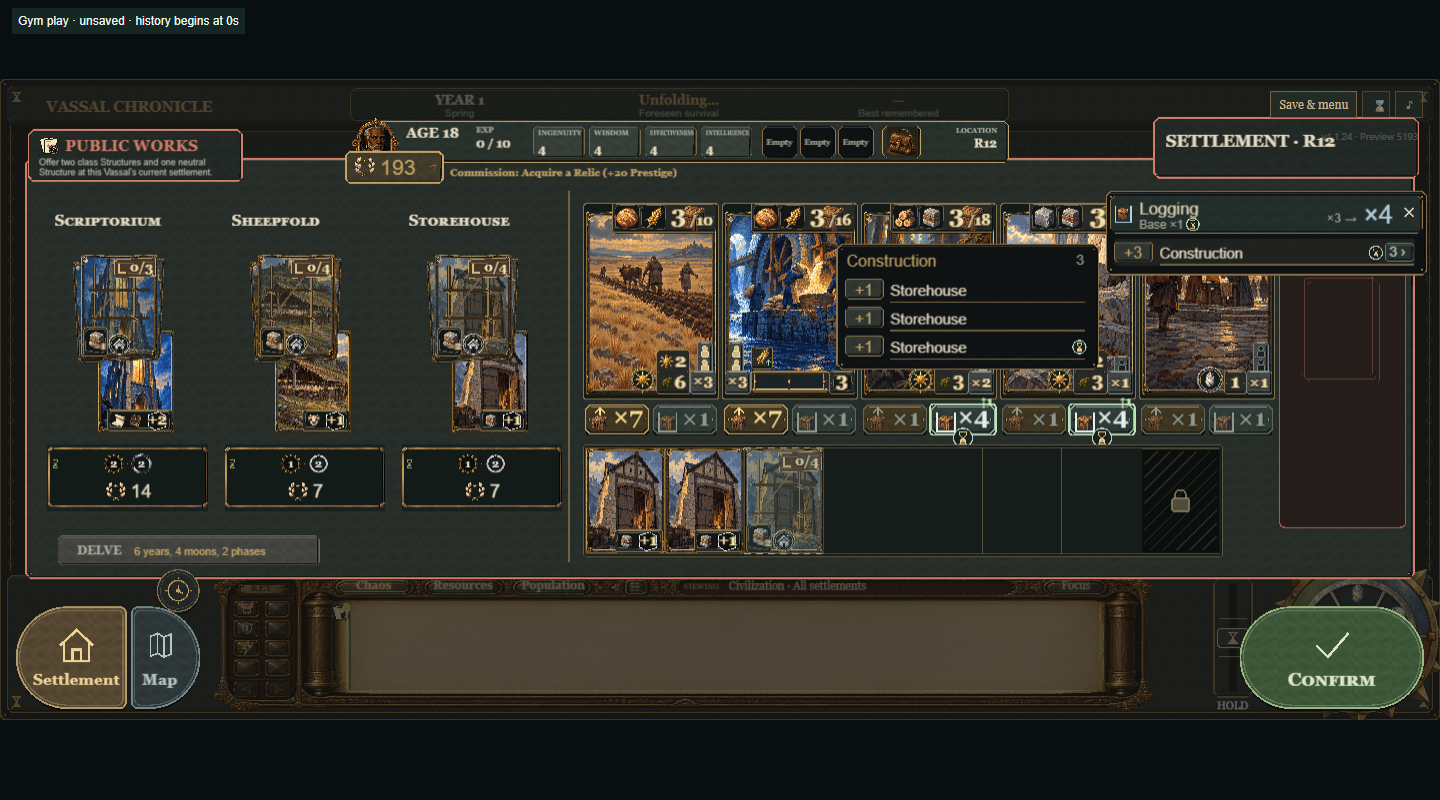
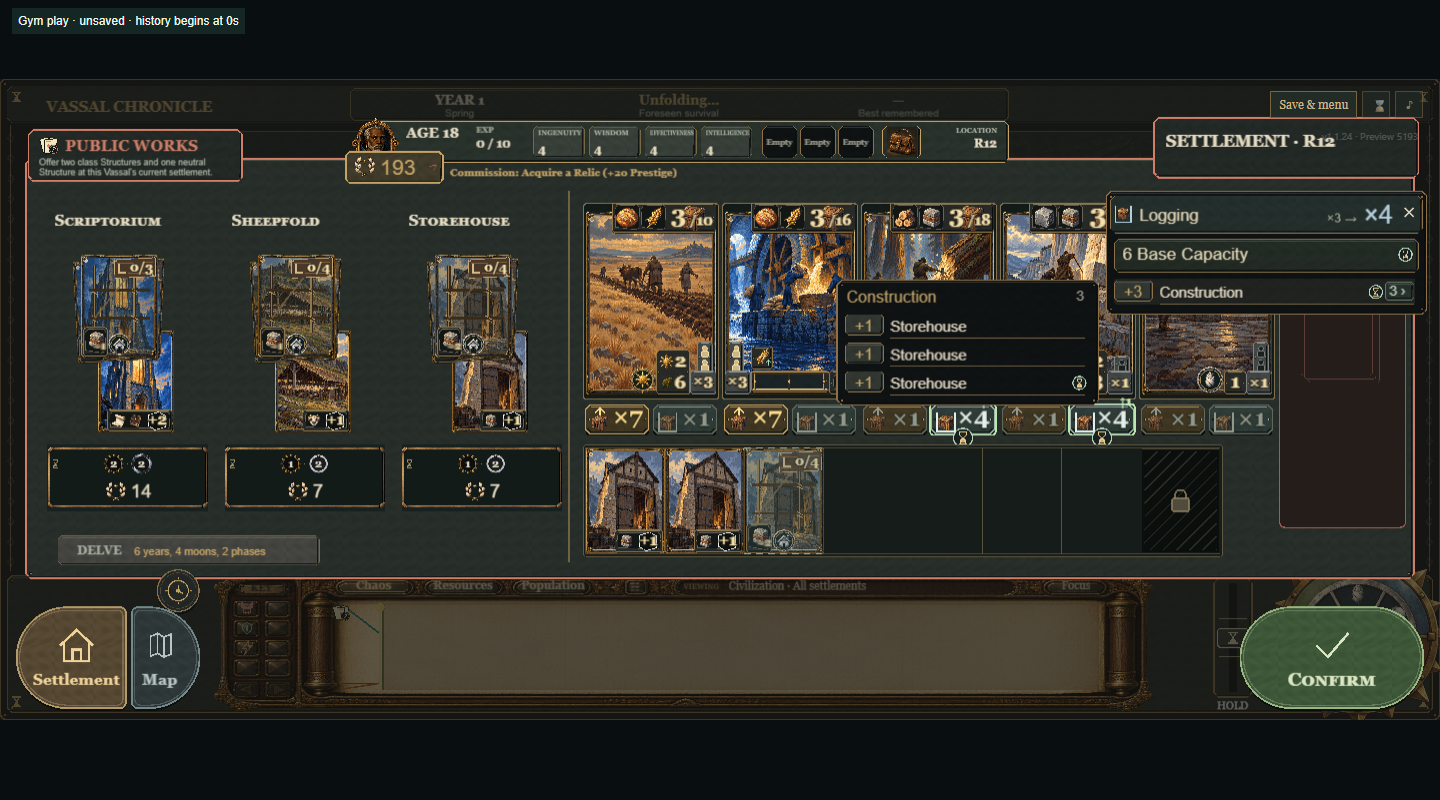
Show base amounts above multiplier contributions

Changed region(s): [[0.5625, 0.25, 1.0, 0.5312]]

diff --git a/src/views/multiplier-breakdown.js b/src/views/multiplier-breakdown.js
@@ -79,7 +79,7 @@ function contributionRows(parent,entries,{width,top,maxRows=5,onSources=()=>{},o
 }
 
 export function addMultiplierBreakdown(parent,spec,{pinned=false,onSources,onLeave}={}) {
-  const {name,pool,kind,before,afterCompletion}=spec.poolBreakdown;
+  const {name,pool,kind,before,baseOutput=[],afterCompletion}=spec.poolBreakdown;
   const groups=poolContributions(pool),width=540,accent=kind==='output'?0xe6bc70:0xb3cfdd;
   const header=new PIXI.Graphics();paintRelicPanel(header,7,7,width-14,63,kind==='output'?0x302619:0x25302e,RELIC.brass,1);header.eventMode='none';parent.addChild(header);
   addResourceIcon(parent,'stock',29,37,25);
@@ -87,15 +87,26 @@ export function addMultiplierBreakdown(parent,spec,{pinned=false,onSources,onLea
   if(kind==='output')mark.moveTo(29,29).lineTo(29,15).moveTo(23,21).lineTo(29,15).lineTo(35,21);
   else mark.moveTo(16,24).lineTo(16,51).lineTo(42,51).lineTo(42,24);
   mark.eventMode='none';parent.addChild(mark);
-  const heading=label(parent,name,56,13,28,RELIC.bone);heading.scale.set(Math.min(1,(width-265)/heading.width));
-  const base=label(parent,'Base \u00d71',56,44,20,RELIC.ash);
+  const heading=label(parent,name,56,24,28,RELIC.bone);heading.scale.set(Math.min(1,(width-265)/heading.width));
   const number=label(parent,`\u00d7${pool.multiplier}`,width-(pinned?56:20),15,43,accent);number.anchor.x=1;number.scale.set(Math.min(1,112/number.width));
   if(before!==undefined&&before!==pool.multiplier) {
     const previous=label(parent,`\u00d7${before} \u2192`,number.x-number.width-10,33,21,RELIC.ash);previous.anchor.x=1;
   }
-  if(afterCompletion)addMultiplierCompletionBadge(parent,56+base.width+16,55,21);
-  const rows=contributionRows(parent,groups,{width,top:80,onSources,onLeave});
-  return {width,height:92+rows.height,rows};
+  const baseLines=kind==='capacity'
+    ?[`${pool.base+pool.quality+pool.scholar} Base Capacity`]
+    :baseOutput.map(row=>baseOutput.length>1?`${row.timing} \u203a Base ${row.amount} Stock`:`${row.amount} Base Stock`);
+  const capacityParts=kind==='capacity'&&(pool.quality||pool.scholar)
+    ?[`${pool.base} Practice`,...(pool.quality?[`+${pool.quality} Quality`]:[]),...(pool.scholar?[`+${pool.scholar} Scholar`]:[])].join('  '):null;
+  const top=80,baseHeight=baseLines.length*40+16+(capacityParts?26:0);
+  const basePanel=new PIXI.Graphics();paintRelicPanel(basePanel,14,top,width-28,baseHeight,0x242c26,RELIC.brass,1);basePanel.eventMode='none';parent.addChild(basePanel);
+  for(const [index,line] of baseLines.entries()) {
+    const text=label(parent,line,28,top+8+index*40,29,RELIC.bone);
+    text.scale.set(Math.min(1,(width-(afterCompletion?88:56))/text.width));
+  }
+  if(capacityParts)label(parent,capacityParts,28,top+8+baseLines.length*40,21,RELIC.ash);
+  if(afterCompletion)addMultiplierCompletionBadge(parent,width-36,top+26,22);
+  const rows=contributionRows(parent,groups,{width,top:top+baseHeight+10,onSources,onLeave});
+  return {width,height:top+baseHeight+22+rows.height,rows,baseLines};
 }
 
 export function addMultiplierSources(parent,entry) {

diff --git a/src/model/gamepiece-presentation.js b/src/model/gamepiece-presentation.js
@@ -5,7 +5,7 @@ import { getMoonPhaseDurationSec, getMoonCycleDurationSec } from './moon-phases.
 import { MOON_PHASE_INDEX_BY_ID } from '../defs/gamesettings/moon-phase-defs.js';
 import { getRegionReference } from './world-state.js';
 import { stockCapacityBreakdown, stockOutputBreakdown } from './detailed-settlements/stock.js';
-import { getPracticeReading } from './practice-reading.js';
+import { getPracticeReading, getPracticeBaseStockProduction } from './practice-reading.js';
 import { getStructureReading } from './structure-reading.js';
 
 export const GAMEPIECE_OUTPUTS = Object.freeze({
@@ -116,7 +116,7 @@ export function getGamepieceFace(state, kind, id, tier = 'bronze', { evaluation 
   const outputMultiplier = kind==='practice'&&producesStock ? stockOutputBreakdown(state,settlement,slot??{practiceId:id,tier},workers?.tokens?.some(token=>token.specialist==='scholar')) : null;
   const reading = kind === 'practice' ? getPracticeReading(def) : getStructureReading(def, {slot, settlement});
   return { kind, definitionId: id, label: def.label, tier, tags: [...new Set([...(def.tags ?? []),...(workers?.tokens?.some(t=>t.specialist==='scholar')?['Knowledge']:[])])], qualityLabel: tier, rule: def.ui?.rule ?? '',
-    inputs, chaosCost, monsterPressureCost, production, workerMultiplier, chargeTriggers:chargeTriggerSymbols(def), construction,
+    inputs, chaosCost, monsterPressureCost, production, baseStockProduction:kind==='practice'?getPracticeBaseStockProduction(def):[], workerMultiplier, chargeTriggers:chargeTriggerSymbols(def), construction,
     reading, structureBonuses: kind === 'structure' ? reading.bonuses : [], structureQualityBonus: kind === 'structure' ? slot?.qualityBonus ?? 0 : 0,
     chargeGain:def.mode==='charge'?(evaluation?.chargeGain??Math.floor(def.charge.gain*workerMultiplier)):null,
     stock: evaluation?.stock ?? slot?.stock ?? 0, stockCapacity: evaluation?.stockCapacity ?? capacity?.total ?? 0, stockCapacityBreakdown: capacity, outputMultiplierBreakdown:outputMultiplier, stockTraits: def.stockTraits ?? [],

diff --git a/src/views/tooltip-pixi.js b/src/views/tooltip-pixi.js
@@ -109,7 +109,8 @@ export function createTooltipView({ layer, interaction, app, layout = null, onRe
     let x=bounds.x-w-12;
     if(x<clampMargin)x=bounds.x+bounds.width+12;
     x=Math.max(clampMargin,Math.min(screen.width-w-clampMargin,x));
-    const y=Math.max(clampMargin,Math.min(screen.height-h-clampMargin,bounds.y+90*scale));
+    const row=poolReading?.rows.controls.find(({entry})=>entry.key===sourceEntry?.key)?.control;
+    const y=Math.max(clampMargin,Math.min(screen.height-h-clampMargin,row?.getBounds().y??bounds.y+90*scale));
     const p=layer.toLocal({x,y});sourcePane.position.set(p.x,p.y);sourcePane.scale.set(activeScale);
   }
   function showSources(entry) {
@@ -816,6 +817,7 @@ export function createTooltipView({ layer, interaction, app, layout = null, onRe
       sourceId: activeSpec?.sourceId ?? null,
       title: activeSpec?.title ?? "",
       poolMultiplier:activeSpec?.poolBreakdown?.pool.multiplier??null,
+      poolBaseLines:poolReading?.baseLines??[],
       poolRows:poolReading?.rows.controls.map(({entry,control})=>{const p=control.toGlobal(new PIXI.Point(200,24));return{key:entry.key,label:entry.label,count:entry.count,amount:entry.amount,x:p.x,y:p.y};})??[],
       poolSources:sourceEntry?{label:sourceEntry.label,sources:sourceEntry.sources.map(s=>({label:s.label,amount:s.amount,pending:s.pending===true})),scroll:sourceSize.rows.getScroll(),rect:sourcePane.getBounds()}:null,
       reading: activeSpec?.face?.reading ?? null,

diff --git a/src/model/vassal-life-map/multiplier-preview.js b/src/model/vassal-life-map/multiplier-preview.js
@@ -2,6 +2,7 @@
 import { getDetailedPracticeDef } from '../game-config.js';
 import { stockOutputBreakdown, stockCapacityBreakdown } from '../detailed-settlements/stock.js';
 import { assignDetailedSettlementWorkers, isScholarStaffed } from '../detailed-settlements/workers.js';
+import { getPracticeBaseStockProduction } from '../practice-reading.js';
 
 export function multiplierBoardPreview(state, regionId, before, after, completeIds = []) {
   completeIds=completeIds.filter(Boolean);
@@ -16,7 +17,7 @@ export function multiplierBoardPreview(state, regionId, before, after, completeI
       if (!def?.effects.some(effect => effect.op === 'generateStock')) return [];
       const staffed = isScholarStaffed(workers[index]);
       const mark=pool=>({...pool,sources:pool.sources.map(source=>({...source,pending:predict&&!!source.instanceId&&completeIds.includes(source.instanceId)}))});
-      return [{index,practiceId:slot.practiceId,name:def.label,output:mark(stockOutputBreakdown(projected,settlement,slot,staffed)),capacity:mark(stockCapacityBreakdown(projected,settlement,slot,staffed))}];
+      return [{index,practiceId:slot.practiceId,name:def.label,baseOutput:getPracticeBaseStockProduction(def),output:mark(stockOutputBreakdown(projected,settlement,slot,staffed)),capacity:mark(stockCapacityBreakdown(projected,settlement,slot,staffed))}];
     });
   };
   const current = read(before);

diff --git a/src/views/multiplier-fitting.js b/src/views/multiplier-fitting.js
@@ -51,7 +51,7 @@ export function addMultiplierFitting(parent,box,{kind,multiplier,label=null,tool
 export function addPracticeMultiplierPair(parent,box,entry,index,tooltipView) {
   const face=entry?.face;
   if(!face?.outputMultiplierBreakdown)return [];
-  const row={index,practiceId:entry.practiceId??face.definitionId,name:face.label,
+  const row={index,practiceId:entry.practiceId??face.definitionId,name:face.label,baseOutput:face.baseStockProduction,
     output:face.outputMultiplierBreakdown,capacity:face.stockCapacityBreakdown};
   return ['output','capacity'].map((kind,i)=>{
     const scale=box.height/48,width=(box.width-8)/2;
@@ -66,5 +66,5 @@ export function multiplierTooltip(row,kind,{afterCompletion=false}={}) {
   const pending=afterCompletion&&(pool.sources.some(source=>source.pending)||before!==undefined&&before!==pool.multiplier);
   return {title:`${row.name} \u00b7 ${kind==='output'?'Output':'Capacity'} Multiplier \u00d7${row[kind].multiplier}`,
     poolKey:`pool:${row.practiceId??row.index??row.name}:${kind}`,
-    poolBreakdown:{name:row.name,kind,pool,before,afterCompletion:pending},scale:1};
+    poolBreakdown:{name:row.name,kind,pool,before,baseOutput:row.baseOutput,afterCompletion:pending},scale:1};
 }

diff --git a/src/model/practice-reading.js b/src/model/practice-reading.js
@@ -3,6 +3,20 @@
 const title = value => value ? value[0].toUpperCase() + value.slice(1) : '';
 const traits = values => values.join(' or ') + ' Stock';
 
+// Authored Stock yield before workers, local bonuses and Output Multiplier.
+// Presentation data only; the activation evaluator remains authoritative.
+export function getPracticeBaseStockProduction(def) {
+  const effects=(def.effects??[]).filter(effect=>effect.op==='generateStock');
+  if(!effects.length)return [];
+  const activation=def.activation??{};
+  const times=def.mode==='charge'?[{type:activation.type,timing:''}]
+    :[activation.type,...(activation.also??[])].flatMap(type=>type==='season'
+      ?(activation.seasonKeys?.length?activation.seasonKeys:['spring','summer','autumn','winter']).map(season=>({type,season,timing:title(season)}))
+      :[{type,timing:`${title(type)} phase`}]);
+  return times.map(({type,season,timing})=>({timing,amount:effects.reduce((sum,effect)=>sum+
+    (effect.activationAmounts?.[type]??(season?effect.seasonAmounts?.[season]:undefined)??effect.amount??0),0)}));
+}
+
 function effectText(effect, amount) {
   const names = { scholar: 'Scholar', warrior: 'Warrior' };
   const text = {

diff --git a/docs/output-capacity-multipliers.md b/docs/output-capacity-multipliers.md
@@ -42,6 +42,10 @@ the throwaway experiment. This implementation starts from local `main`
   reorder, undo and discard update the reading through existing controllers.
 - Compact carved contribution ledgers support hover, click/tap pinning, nested
   source inspection, bounded scrolling, source identities and pending markers.
+- A distinct base-amount block sits above multiplier contributors. Output shows
+  authored Stock yields by season/activation; Capacity shows its amount before
+  multiplication, with Practice/Quality/Scholar parts when applicable. The header
+  shows the accumulated multiplier and no longer repeats a tiny “Base ×1”.
 - Hovering any part of an offer, including price/frame, shows its compact reading
   immediately beside that buy slot. Overlap to its right is an accepted tradeoff.
 - Discarding newly reserved construction undoes its purchase and releases its
@@ -74,6 +78,7 @@ Actual game captures (844 ? 390 phone landscape, plus desktop):
 - [Compact ledger and pending sources](prototypes/output-capacity-multipliers/phone-ledger.png)
 - [Buy-slot construction preview](prototypes/output-capacity-multipliers/phone-building-preview.png)
 - [Regional settlement panel](prototypes/output-capacity-multipliers/phone-region.png)
+- [Seasonal output base ledger](prototypes/output-capacity-multipliers/phone-output-ledger.png)
 - [Detailed settlement](prototypes/output-capacity-multipliers/phone-settlement.png)
 - [Practice shop](prototypes/output-capacity-multipliers/phone-practice-shop.png)
 - [Desktop ledger](prototypes/output-capacity-multipliers/desktop-ledger.png)
